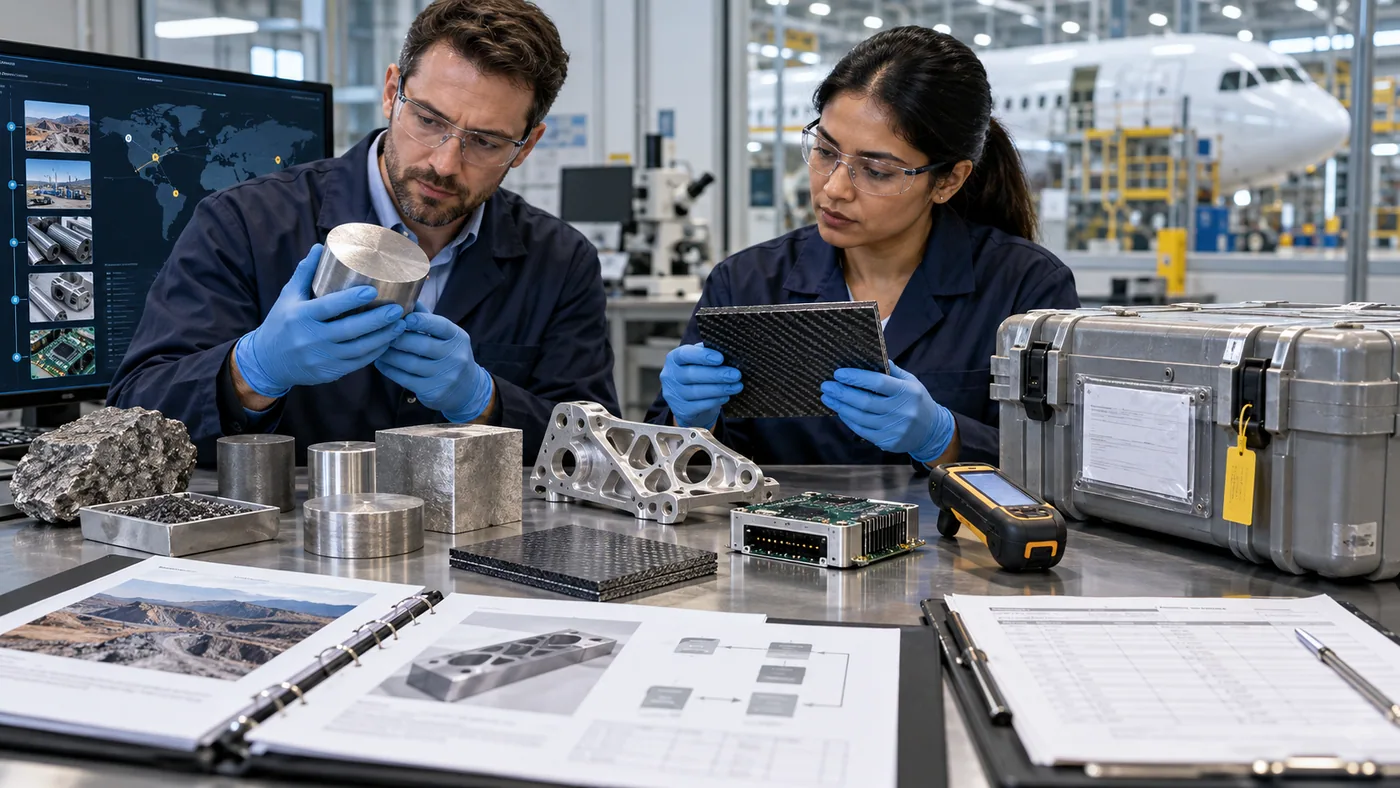
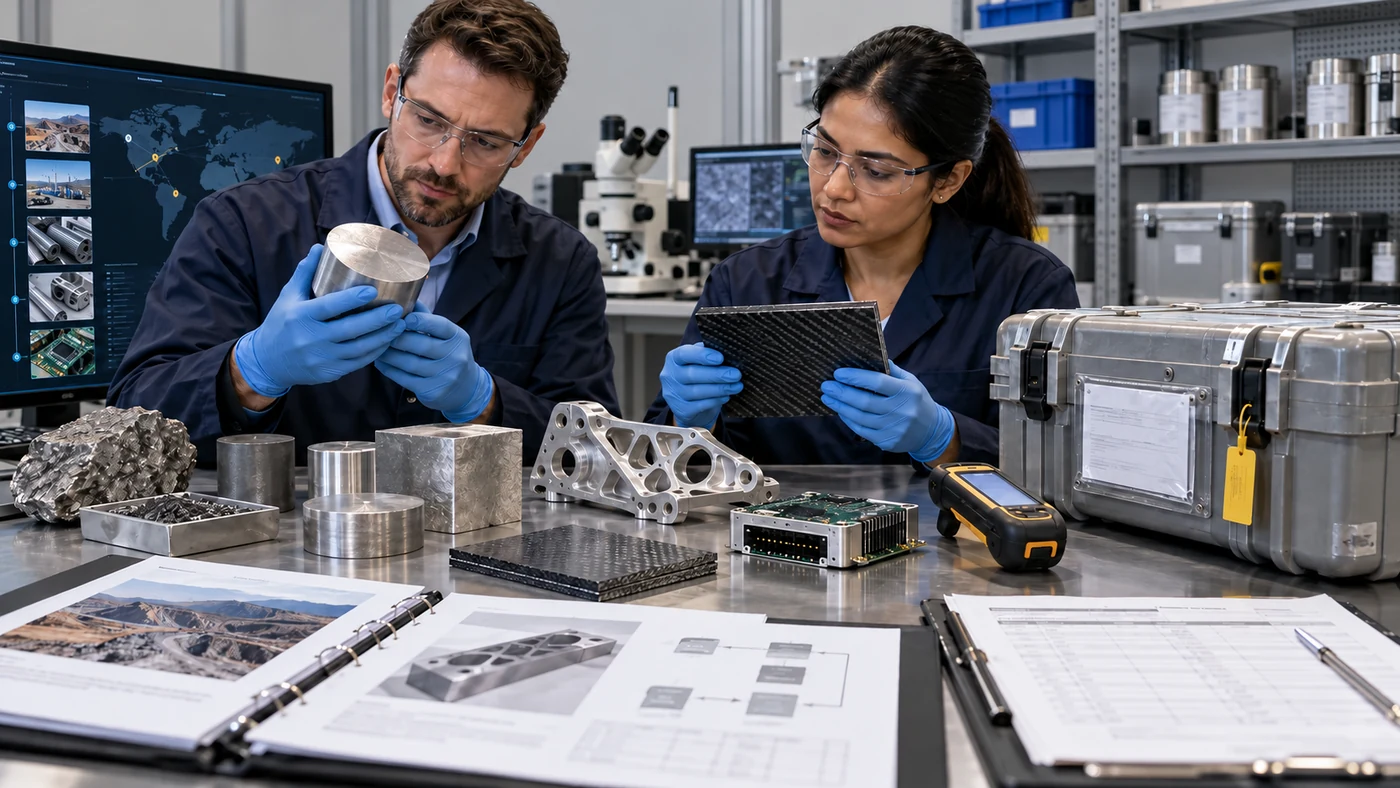
Remove civil aircraft and green claims

diff --git a/index.html b/index.html
@@ -596,7 +596,7 @@
       {
         id: 6,
         title: "Operaciones In-Service, disponibilidad y resiliencia",
-        subtitle: "Analiza cuándo la disponibilidad para la misión y la sostenibilidad se refuerzan y cuándo siguen existiendo compensaciones que deben transparentarse.",
+        subtitle: "Analiza bajo qué condiciones una decisión de disponibilidad puede reducir impactos y cuándo desplaza cargas o crea compensaciones que deben transparentarse.",
 
         objectives: [
           "Relacionar fiabilidad, reparación y diseño logístico con el desempeño de recursos a largo plazo.",
@@ -607,7 +607,7 @@
           {
             title: "Disponibilidad y sostenibilidad pueden compartir fundamentos",
             paragraphs: [
-              "Los componentes fiables, el mantenimiento preventivo eficaz, una previsión precisa, la capacidad de reparación y la reutilización controlada pueden reducir tanto las interrupciones como la demanda innecesaria. Prolongar la vida segura y evitar desmontajes repetidos sin fallo confirmado conserva capacidad y recursos. En este sentido, disponibilidad y sostenibilidad se refuerzan con frecuencia.",
+              "Los componentes fiables, el mantenimiento preventivo eficaz, una previsión precisa, la capacidad de reparación y la reutilización controlada pueden reducir interrupciones y demanda innecesaria. Sin embargo, ese efecto no debe presumirse: exige comparar alternativas con el mismo requisito operativo, medir el consumo de recursos y comprobar que no se trasladan cargas a mantenimiento, logística, seguridad o final de vida.",
               "La relación no es automática. Objetivos elevados de disponibilidad pueden requerir redundancia, stock de seguridad, transporte urgente o más infraestructura. El análisis de sostenibilidad no debe ocultarlo. Debe ayudar a distinguir una resiliencia justificada de una ineficiencia habitual y mostrar dónde una mejor planificación reduce la frecuencia de decisiones de emergencia."
             ]
           },
@@ -769,18 +769,20 @@
       }
     ];
 
+    // Norma editorial de los visuales: sin aviación civil y sin presentar
+    // mejoras ambientales si la escena o la evidencia no permiten demostrarlas.
     const ROUTE_VISUALS = {
       2: {src:"assets/route-systems.webp",alt:"A400M en un hangar mientras un equipo de ingeniería revisa una mesa de planificación del ciclo de vida",title:"Hito de sistemas y ciclo de vida",caption:"Diseño, capacidad de mantenimiento y realidad operativa forman parte del mismo sistema."},
       4: {src:"assets/route-circularity.webp",alt:"Equipos de aviónica, pieza mecánica reparable y panel modular de material compuesto con un Eurofighter al fondo",title:"Hito de valor circular",caption:"Inspeccionar, mantener, reparar y conservar valor antes de recurrir a opciones de recuperación de menor valor."},
-      6: {src:"assets/route-operations.webp",alt:"A400M en plataforma junto a pista, pradera gestionada, drenaje y una zona natural separada",title:"Hito de operaciones y territorio",caption:"Disponibilidad, seguridad de vuelo, gestión del suelo y contexto ecológico deben gestionarse conjuntamente."},
+      6: {src:"assets/route-operations.webp",alt:"Equipo de soporte inspecciona un componente, su configuración y los repuestos disponibles en un centro logístico de defensa",title:"Hito de operaciones y territorio",caption:"La disponibilidad, el uso de recursos y los impactos asociados deben evaluarse con datos operativos, límites explícitos y controles verificables."},
       8: {src:"assets/route-evidence.webp",alt:"Equipo aeronáutico examinando un componente y evidencia de ciclo de vida con un Eurofighter y un A400M en el exterior",title:"Hito de evidencia y decisión",caption:"Una recomendación creíble conecta restricciones técnicas, evidencia de ciclo de vida, controles y desencadenantes de revisión."}
     };
 
     const THEORY_VISUALS = {
       1: {
         src:"assets/theory-systemic-decision.webp",
-        es:{alt:"Equipo multidisciplinar de ingeniería evalúa conjuntamente un componente, materiales y evidencias operativas en un hangar",title:"Decidir dentro de un sistema",caption:"Una decisión sólida integra función, seguridad, operación, personas, recursos y consecuencias futuras en lugar de optimizar un único indicador."},
-        en:{alt:"Multidisciplinary engineering team jointly evaluates a component, materials and operational evidence in a hangar",title:"Deciding within a system",caption:"A robust decision integrates function, safety, operations, people, resources and future consequences instead of optimising a single indicator."}
+        es:{alt:"Equipo multidisciplinar evalúa un componente, muestras de materiales y documentación técnica en un taller de integración de defensa",title:"Decidir dentro de un sistema",caption:"Una decisión sólida compara función, seguridad, operación, personas, recursos y consecuencias futuras; no convierte la mejora de un único indicador en una conclusión de sostenibilidad."},
+        en:{alt:"Multidisciplinary team assesses a component, material samples and technical documentation in a defence integration workshop",title:"Deciding within a system",caption:"A robust decision compares function, safety, operations, people, resources and future consequences; it does not turn improvement in one indicator into a sustainability conclusion."}
       },
       2: {
         src:"assets/route-systems.webp",
@@ -794,23 +796,23 @@
       },
       4: {
         src:"assets/theory-supply-chain-evidence.webp",
-        es:{alt:"Especialistas examinan muestras metálicas, material compuesto, electrónica y evidencias de trazabilidad de suministro",title:"De la declaración a la evidencia",caption:"La selección responsable de materiales exige conectar origen, transformación, cadena de custodia, calidad del dato y capacidad de recuperación."},
-        en:{alt:"Specialists examine metal samples, composite material, electronics and supply traceability evidence",title:"From declaration to evidence",caption:"Responsible material selection connects origin, processing, chain of custody, data quality and recovery capability."}
+        es:{alt:"Especialistas examinan muestras metálicas, material compuesto, electrónica y registros de trazabilidad en un laboratorio de defensa",title:"De la declaración a la evidencia",caption:"Una afirmación sobre materiales solo es defendible si conecta producto, origen, transformación, cadena de custodia, calidad del dato y alcance del control."},
+        en:{alt:"Specialists examine metal samples, composite material, electronics and traceability records in a defence laboratory",title:"From declaration to evidence",caption:"A materials claim is defensible only when it connects the product, origin, processing, chain of custody, data quality and control scope."}
       },
       5: {
         src:"assets/theory-airfield-nature.webp",
-        es:{alt:"Dos especialistas toman muestras en un drenaje junto a un Eurofighter estacionado ante un refugio de una base aérea militar",title:"Evaluar impactos en una instalación de defensa",caption:"La inspección documenta posibles vías de impacto sobre agua, suelo y hábitats en el entorno operativo del Eurofighter. No acredita un resultado ambiental positivo: aporta evidencias para identificar riesgos, incertidumbres y controles."},
-        en:{alt:"Two specialists sample a drain beside a Eurofighter parked outside a hardened shelter at a military airbase",title:"Assessing impacts at a defence facility",caption:"The inspection documents potential impact pathways affecting water, soil and habitats in the Eurofighter operating environment. It does not demonstrate a positive environmental outcome: it provides evidence to identify risks, uncertainties and controls."}
+        es:{alt:"Dos especialistas toman muestras de agua y sedimento en un drenaje turbio del perímetro de una instalación militar",title:"Investigar una posible vía de impacto",caption:"El muestreo del drenaje ayuda a determinar fuentes, receptores y severidad. La imagen no representa una mejora ambiental: muestra una afección potencial que requiere datos, análisis y, si procede, medidas correctoras."},
+        en:{alt:"Two specialists collect water and sediment samples from a turbid drain at the perimeter of a military facility",title:"Investigating a potential impact pathway",caption:"Drainage sampling helps determine sources, receptors and severity. The image does not depict environmental improvement: it shows a potential impact requiring data, analysis and, where necessary, corrective action."}
       },
       6: {
         src:"assets/route-operations.webp",
-        es:{alt:"Aeronave de transporte en plataforma junto a pista, drenaje, pradera gestionada y zona natural separada",title:"Disponibilidad con resiliencia",caption:"La disponibilidad y la sostenibilidad se refuerzan cuando la fiabilidad, la reparación, la previsión y la logística reducen urgencias evitables."},
-        en:{alt:"Transport aircraft on an apron beside runway, drainage, managed grassland and a separated natural area",title:"Availability with resilience",caption:"Availability and sustainability reinforce each other when reliability, repair, forecasting and logistics reduce avoidable emergencies."}
+        es:{alt:"Equipo de soporte revisa un componente, su configuración, herramientas y repuestos en un centro logístico de defensa",title:"Disponibilidad bajo restricciones reales",caption:"La reparación o una mejor previsión pueden reducir urgencias y consumo de recursos, pero el efecto debe demostrarse con datos, alcance y comparación frente a alternativas."},
+        en:{alt:"Support team reviews a component, its configuration, tools and spares at a defence logistics centre",title:"Availability under real constraints",caption:"Repair or improved forecasting may reduce urgency and resource use, but the effect must be demonstrated with data, scope and comparison against alternatives."}
       },
       7: {
         src:"assets/theory-governance-evidence.webp",
-        es:{alt:"Equipo multifuncional revisa un componente, indicadores, registros y controles antes de aprobar una conclusión",title:"Evidencia que conduce a una decisión",caption:"Una afirmación creíble declara línea base, alcance, método, incertidumbre, responsables y condiciones de revisión."},
-        en:{alt:"Cross-functional team reviews a component, indicators, records and controls before approving a conclusion",title:"Evidence that leads to a decision",caption:"A credible claim states its baseline, scope, method, uncertainty, owners and review conditions."}
+        es:{alt:"Equipo multifuncional contrasta un componente, indicadores, registros y controles en una sala técnica de revisión",title:"Evidencia antes de concluir",caption:"Los gráficos no prueban por sí solos una mejora. Una conclusión exige línea base, alcance, método, incertidumbre, responsables y condiciones de revisión."},
+        en:{alt:"Cross-functional team checks a component, indicators, records and controls in a technical review room",title:"Evidence before conclusions",caption:"Charts alone do not prove improvement. A conclusion requires a baseline, scope, method, uncertainty, accountable owners and review conditions."}
       },
       8: {
         src:"assets/route-evidence.webp",
